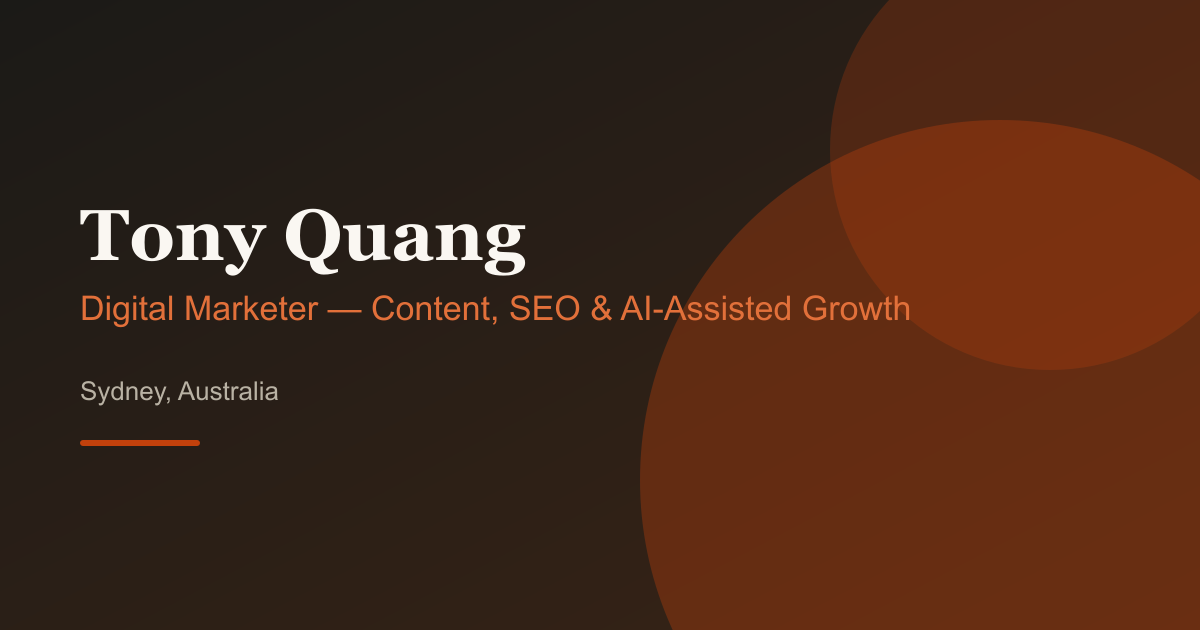
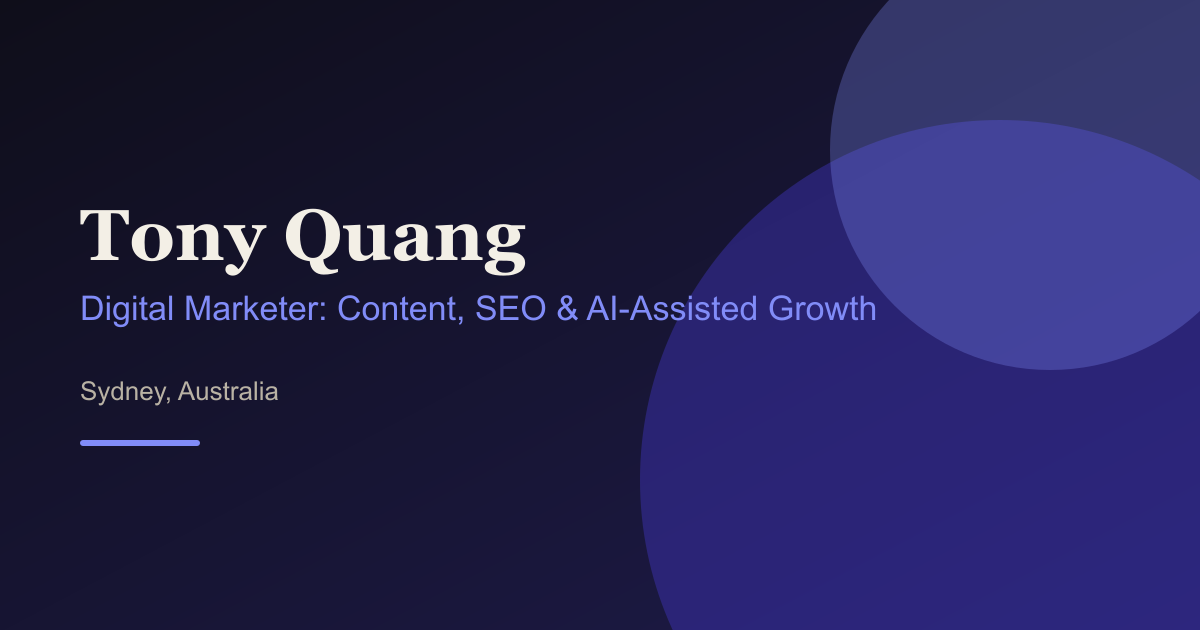
Redesign: dark indigo theme, new photos, reordered sections
- Modern dark navy/indigo color scheme, dark mode by default
- Hero photo recropped waist-up; About uses full uncropped photo
- About copy rewritten in a drier, more assured voice
- All em dashes removed from site copy
- Stats bar and hero social links added
- Sections reordered: About > What I Do > Work > Experience > Education > Case Study > Contact
- GOAT Canva links removed; certifications updated to full LinkedIn list

diff --git a/src/data/content.ts b/src/data/content.ts
@@ -1,28 +1,34 @@
 export const site = {
   name: "Tony Quang",
-  title: "Digital Marketer — Content, SEO & AI-Assisted Growth",
+  title: "Digital Marketer: Content, SEO & AI-Assisted Growth",
   location: "Sydney, Australia",
   email: "ducquang2003@gmail.com",
   phone: "0489 299 005",
   linkedin: "https://www.linkedin.com/in/tonyquang/",
   description:
-    "Tony Quang is a Sydney-based digital marketer working across SEO, content, email, social and analytics — and building AI-assisted marketing systems that make it all faster and more consistent.",
+    "Tony Quang is a Sydney-based digital marketer working across SEO, content, email, social and analytics, and building AI-assisted marketing systems that make it all faster and more consistent.",
 };
+
+export const stats = [
+  { value: "22%", label: "Lead quality lift at GOAT Financial Services" },
+  { value: "5", label: "Deliverables in the flagship brand and campaign case study" },
+  { value: "3", label: "Certifications earned in 2025, from Google to Salesforce" },
+];
 
 export const nav = [
   { label: "About", href: "#about" },
   { label: "What I Do", href: "#services" },
-  { label: "Case Study", href: "#case-study" },
   { label: "Work", href: "#work" },
   { label: "Experience", href: "#experience" },
+  { label: "Case Study", href: "#case-study" },
   { label: "Contact", href: "#contact" },
 ];
 
 export const hero = {
   eyebrow: "Digital Marketer · Content, SEO & AI-Assisted Growth",
-  headline: "Marketing that does the whole job — strategy, content, and the numbers to prove it.",
+  headline: "Marketing that does the whole job: strategy, content, and the numbers to prove it.",
   subhead:
-    "Marketing Coordinator at GOAT Financial Services. Master of Marketing (Macquarie University). I work across the full stack of digital marketing — SEO, content, email, social, analytics — and I build AI-assisted workflows that make all of it faster and more consistent.",
+    "Marketing Coordinator at GOAT Financial Services. Master of Marketing (Macquarie University). I work across the full stack of digital marketing: SEO, content, email, social, analytics, and I build AI-assisted workflows that make all of it faster and more consistent.",
   primaryCta: { label: "Get in touch", href: "mailto:ducquang2003@gmail.com" },
   secondaryCta: { label: "See my work", href: "#case-study" },
 };
@@ -30,10 +36,10 @@ export const hero = {
 export const about = {
   heading: "About me",
   paragraphs: [
-    "I'm a digital marketer based in Sydney with a simple belief: good marketing isn't one skill, it's a system. Brand voice, content, distribution, and measurement all have to work together — and I like working across all of it.",
-    "I started in recruitment marketing at Circle Recruitment & HR, moved into financial services with GOAT Financial Services, and along the way completed a Master of Marketing at Macquarie University on top of a business degree in finance and marketing from the University of Wollongong.",
-    "What sets my work apart is how I use AI. I don't just use ChatGPT to draft copy — I build structured AI marketing workspaces for brands: codified brand voice guidelines, customer profiles, and reusable content workflows that let AI produce on-brand work at scale while a human stays in charge of strategy and quality. As search shifts toward AI-driven answers (AEO/GEO), that's where I'm placing my bets.",
-    "Outside the numbers, I care about tone. The brands I work with sound like themselves — whether that's a straight-talking sports coach or a financial services firm.",
+    "Good marketing is rarely one skill. Most people treat it that way, which is usually why it fails. It is a system: brand voice, content, distribution, and measurement, each one dependent on the others. I work across all of it, on principle. Separating them was always the mistake.",
+    "I started in recruitment marketing at Circle Recruitment & HR, then moved into financial services at GOAT Financial Services. Somewhere in between: a Master of Marketing from Macquarie University, on top of a business degree in finance and marketing from the University of Wollongong.",
+    "Here is what sets the work apart. I do not open a chat window and hope for the best. I build structured AI marketing workspaces: codified brand voice guidelines, customer profiles, and reusable content workflows, so the output stays on brand at scale while a human keeps hold of the strategy. Search is shifting toward AI-generated answers. AEO and GEO are not buzzwords to me; they are where I have already placed the bet.",
+    "The numbers matter, obviously. But tone is the thing I notice first, the detail that gives a brand away. One that sounds like itself, whether that is a blunt sports coach or a financial services firm, is one that has been paid proper attention. Most have not.",
   ],
 };
 
@@ -41,7 +47,7 @@ export const services = [
   {
     title: "Content & Brand Voice",
     description:
-      "Blog posts, landing pages, email sequences, and social content — always anchored to a documented brand voice. I codify how a brand speaks so every piece sounds consistent, whoever or whatever produces it.",
+      "Blog posts, landing pages, email sequences, and social content, always anchored to a documented brand voice. I codify how a brand speaks so every piece sounds consistent, whoever or whatever produces it.",
   },
   {
     title: "SEO & Organic Growth",
@@ -51,12 +57,12 @@ export const services = [
   {
     title: "Email Marketing",
     description:
-      "Campaign strategy and full-sequence copywriting — from campaign brief and audience segmentation through to every subject line and CTA.",
+      "Campaign strategy and full-sequence copywriting, from campaign brief and audience segmentation through to every subject line and CTA.",
   },
   {
     title: "Social Media",
     description:
-      "Monthly content calendars and platform-native copy — timely, hook-driven posts built around real market events, with clear CTAs.",
+      "Monthly content calendars and platform-native copy: timely, hook-driven posts built around real market events, with clear CTAs.",
   },
   {
     title: "Website Management",
@@ -71,7 +77,7 @@ export const services = [
   {
     title: "AI-Assisted Marketing Systems",
     description:
-      "My differentiator. Brand-agnostic AI workflows — context files that encode brand voice, ICPs, and business facts — so AI tools generate on-brand campaigns and creative briefs at scale. Foundational AEO/GEO knowledge for the emerging AI-search landscape.",
+      "My differentiator. Brand-agnostic AI workflows: context files that encode brand voice, ICPs, and business facts, so AI tools generate on-brand campaigns and creative briefs at scale. Foundational AEO/GEO knowledge for the emerging AI-search landscape.",
     featured: true,
   },
 ];
@@ -80,11 +86,11 @@ export const caseStudy = {
   eyebrow: "Featured Case Study",
   client: "A sports nutrition & performance coaching practice (Sunshine Coast, QLD)",
   clientNote:
-    "Client name withheld pending confirmation — ask Tony if you'd like the named version.",
+    "Client name withheld pending confirmation. Ask Tony if you'd like the named version.",
   summary:
-    "A completed research and strategy project: a full brand-to-campaign marketing system for a dual-founder practice — an Accredited Sports Dietitian and an S&C Coach — helping teen and adult athletes fuel and train properly.",
+    "A completed research and strategy project: a full brand-to-campaign marketing system for a dual-founder practice (an Accredited Sports Dietitian and an S&C Coach) helping teen and adult athletes fuel and train properly.",
   context:
-    "Early growth stage: strong Instagram presence and referrals, but inconsistent bookings, a dormant email list, and no content targeting their most valuable niche — teen athletes and sports parents.",
+    "Early growth stage: strong Instagram presence and referrals, but inconsistent bookings, a dormant email list, and no content targeting their most valuable niche: teen athletes and sports parents.",
   deliverables: [
     {
       title: "Brand voice & visual identity analysis",
@@ -97,19 +103,19 @@ export const caseStudy = {
         "Competitive analysis across four competitor types, surfacing unoccupied territory: the \"two disciplines, one plan\" dual-founder angle and a direct-to-sports-parent voice no competitor was using. Detailed ideal customer profiles for both buyers.",
     },
     {
-      title: "Email reactivation campaign — \"Try Juzzy Free\"",
+      title: "Email reactivation campaign: \"Try Juzzy Free\"",
       description:
-        "A complete 2-week campaign strategy to activate a list that had never been emailed: full campaign brief plus a ready-to-send 4-email sequence in the brand's voice — reactivation, problem-agitation, proof, and close.",
+        "A complete 2-week campaign strategy to activate a list that had never been emailed: full campaign brief plus a ready-to-send 4-email sequence in the brand's voice: reactivation, problem-agitation, proof, and close.",
     },
     {
       title: "Instagram carousel content series",
       description:
-        "A series of six branded carousels on performance topics — built on reusable templates for ongoing use.",
+        "A series of six branded carousels on performance topics, built on reusable templates for ongoing use.",
     },
     {
       title: "An AI-assisted marketing workspace",
       description:
-        "The system behind all of it: brand voice, customer profiles, and business facts live as context files, and content workflows are brand-agnostic and reusable — any future campaign pulls the brand context automatically.",
+        "The system behind all of it: brand voice, customer profiles, and business facts live as context files, and content workflows are brand-agnostic and reusable, so any future campaign pulls the brand context automatically.",
     },
   ],
   voiceDimensions: [
@@ -123,14 +129,14 @@ export const caseStudy = {
 export const workSamples = [
   {
     company: "GOAT Financial Services",
-    role: "Full-Stack Marketing — Published Work",
+    role: "Full-Stack Marketing: Published Work",
     meta: "Mortgage broking firm, Sydney · Ongoing role since June 2025",
     link: { label: "Visit goatfs.com.au", href: "https://goatfs.com.au" },
     points: [
-      "SEO content (live): long-form, keyword-targeted blog articles — including a refinancing fundamentals guide and a pillar piece targeting \"Mortgage Brokers Sydney,\" \"self-employed home loans,\" and \"first-time home buyers.\"",
+      "SEO content (live): long-form, keyword-targeted blog articles, including a refinancing fundamentals guide and a pillar piece targeting \"Mortgage Brokers Sydney,\" \"self-employed home loans,\" and \"first-time home buyers.\"",
       "Social media (live): wrote and published the monthly social calendar, translating policy changes like the October 2025 Home Guarantee Scheme expansion into plain-English content for first home buyers.",
       "Audience research: built target-audience profiles from ABS lending statistics and IBISWorld's Mortgage Brokers in Australia industry report.",
-      "Website management: full WordPress/Elementor ownership — page builds, content updates, backups, and site migrations.",
+      "Website management: full WordPress/Elementor ownership, covering page builds, content updates, backups, and site migrations.",
       "Design work (Canva): branded social and campaign creative, including a 38-page local-area content pack and a 7-page portfolio presentation.",
     ],
     posts: [
@@ -147,11 +153,7 @@ export const workSamples = [
         href: "https://goatfs.com.au/2025/09/24/home-loans-for-self-employed-people-and-first-time-home-buyers/",
       },
     ],
-    designs: [
-      { label: "GOAT portfolio presentation", href: "https://www.canva.com/d/WVUFlJXRAvCB2vl" },
-      { label: "Local-area social content pack", href: "https://www.canva.com/d/1iQo2eq43PrCk9O" },
-      { label: "Story series", href: "https://www.canva.com/d/VgBSH7nOFfom9Ma" },
-    ],
+    designs: [],
   },
   {
     company: "Circle Recruitment & HR",
@@ -162,7 +164,7 @@ export const workSamples = [
       "SEO competitor analysis: audited SEO strategies, sitemaps, and keyword usage of six competitors in the HR services space to identify content gaps and ranking opportunities.",
       "SEMrush performance audit: analysed backlink profile, authority score, and organic traffic trends, with recommendations for backlink strategy.",
       "Corporate training webpage strategy: researched best-in-class competitor pages and produced layout, content, SEO, and lead-capture recommendations.",
-      "Homepage layout redesign — still live today: Tony's website layout recommendations were adopted for the Circle homepage and the site still uses that layout.",
+      "Homepage layout redesign, still live today: Tony's website layout recommendations were adopted for the Circle homepage and the site still uses that layout.",
     ],
     posts: [],
     designs: [{ label: "SEO sitemap report", href: "https://www.canva.com/d/D7DhIIRjRRVw-Lc" }],
@@ -210,9 +212,11 @@ export const education = {
     { title: "Bachelor of Business (Finance & Marketing)", org: "University of Wollongong", year: "2024" },
   ],
   certifications: [
-    { title: "Google Digital Marketing & E-Commerce", org: "Coursera", year: "June 2025" },
-    { title: "Adobe Graphic Designer", org: "Adobe", year: "July 2025" },
+    { title: "Sales and CRM Overview", org: "Salesforce", year: "January 2026" },
     { title: "Salesforce Sales Operations", org: "Salesforce", year: "December 2025" },
+    { title: "AMI Student Member", org: "Australian Marketing Institute", year: "November 2025" },
+    { title: "Adobe Graphic Designer", org: "Adobe", year: "July 2025" },
+    { title: "Google Digital Marketing & E-Commerce", org: "Coursera", year: "June 2025" },
   ],
 };
 

diff --git a/src/styles/global.css b/src/styles/global.css
@@ -12,11 +12,11 @@
   --color-surface: #ffffff;
   --color-ink: #1b1a17;
   --color-ink-soft: #5b564c;
-  --color-accent: #c2410c;
-  --color-accent-soft: #fbe4d2;
+  --color-accent: #4338ca;
+  --color-accent-soft: #e0e7ff;
   --color-accent-ink: #ffffff;
   --color-line: #e6dfd2;
-  --color-ring: #c2410c;
+  --color-ring: #4338ca;
 
   --animate-fade-up: fade-up 0.6s ease-out both;
 
@@ -43,11 +43,11 @@
   --color-surface: #211e18;
   --color-ink: #f3efe6;
   --color-ink-soft: #b9b2a4;
-  --color-accent: #e2703a;
-  --color-accent-soft: #3a2416;
-  --color-accent-ink: #1b1006;
+  --color-accent: #818cf8;
+  --color-accent-soft: #1e1b4b;
+  --color-accent-ink: #0b1130;
   --color-line: #322c22;
-  --color-ring: #e2703a;
+  --color-ring: #818cf8;
 }
 
 @layer base {
